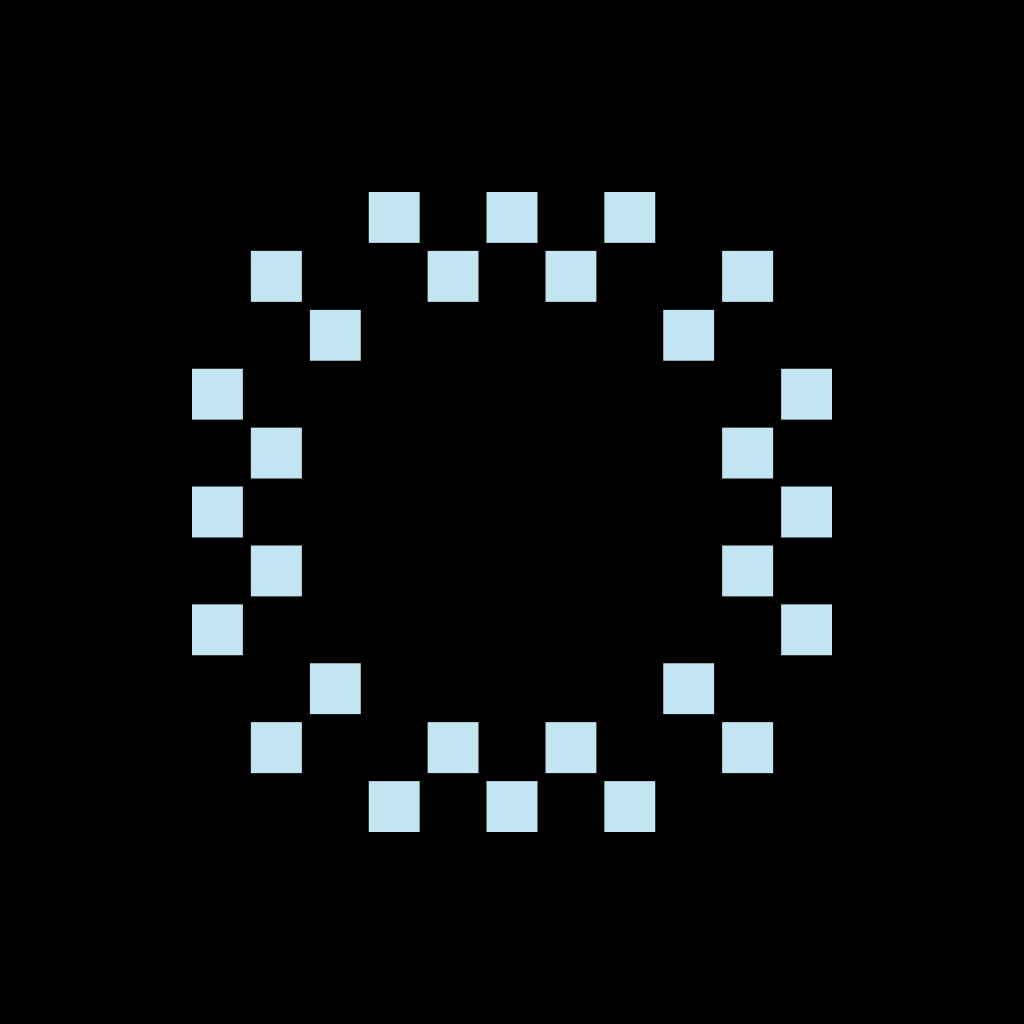
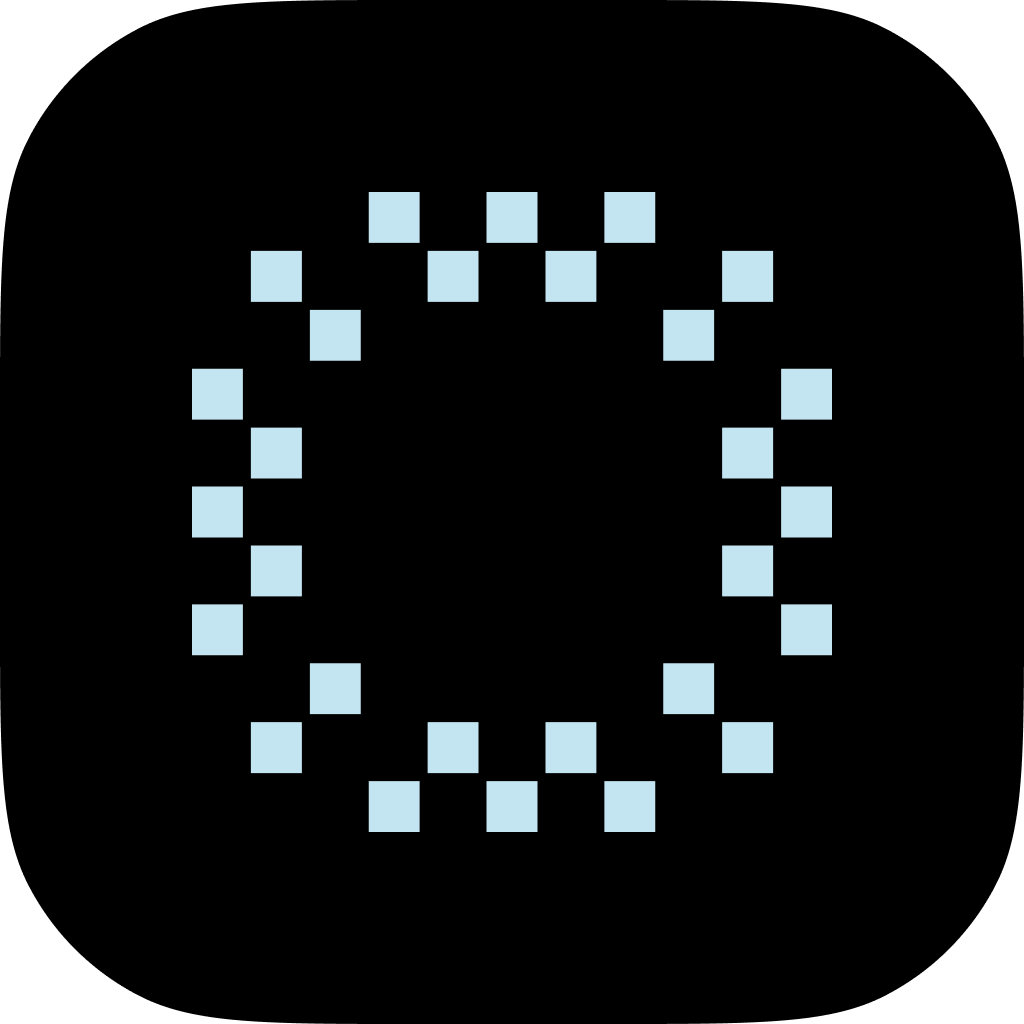
Add macOS wrapper and refine BatchFrame UI

diff --git a/macos/BatchFrameApp.swift b/macos/BatchFrameApp.swift
@@ -1,0 +1,111 @@
+import Cocoa
+import WebKit
+import UniformTypeIdentifiers
+
+final class AppDelegate: NSObject, NSApplicationDelegate, WKScriptMessageHandler, WKNavigationDelegate, WKUIDelegate {
+    private var window: NSWindow!
+    private var webView: WKWebView!
+
+    func applicationDidFinishLaunching(_ notification: Notification) {
+        let contentController = WKUserContentController()
+        contentController.add(self, name: "batchFrameSave")
+
+        let configuration = WKWebViewConfiguration()
+        configuration.userContentController = contentController
+        configuration.preferences.javaScriptCanOpenWindowsAutomatically = true
+
+        webView = WKWebView(frame: .zero, configuration: configuration)
+        webView.navigationDelegate = self
+        webView.uiDelegate = self
+        webView.setValue(false, forKey: "drawsBackground")
+
+        window = NSWindow(
+            contentRect: NSRect(x: 0, y: 0, width: 1280, height: 900),
+            styleMask: [.titled, .closable, .miniaturizable, .resizable, .fullSizeContentView],
+            backing: .buffered,
+            defer: false
+        )
+        window.title = "BatchFrame"
+        window.contentView = webView
+        window.center()
+        window.makeKeyAndOrderFront(nil)
+
+        loadApp()
+    }
+
+    func applicationShouldTerminateAfterLastWindowClosed(_ sender: NSApplication) -> Bool {
+        true
+    }
+
+    private func loadApp() {
+        guard let htmlURL = Bundle.main.url(forResource: "index", withExtension: "html") else {
+            presentError("index.html was not found in the app bundle.")
+            return
+        }
+        webView.loadFileURL(htmlURL, allowingReadAccessTo: Bundle.main.resourceURL ?? htmlURL.deletingLastPathComponent())
+    }
+
+    func userContentController(_ userContentController: WKUserContentController, didReceive message: WKScriptMessage) {
+        guard message.name == "batchFrameSave",
+              let body = message.body as? [String: Any],
+              let filename = body["filename"] as? String,
+              let base64 = body["base64"] as? String,
+              let data = Data(base64Encoded: base64) else {
+            NSSound.beep()
+            return
+        }
+
+        let panel = NSSavePanel()
+        panel.nameFieldStringValue = filename
+        panel.canCreateDirectories = true
+        panel.title = "Save \(filename)"
+
+        if filename.lowercased().hasSuffix(".zip") {
+            panel.allowedContentTypes = [UTType.zip]
+        } else if filename.lowercased().hasSuffix(".png") {
+            panel.allowedContentTypes = [UTType.png]
+        }
+
+        panel.beginSheetModal(for: window) { response in
+            guard response == .OK, let url = panel.url else { return }
+            do {
+                try data.write(to: url, options: .atomic)
+            } catch {
+                self.presentError("Could not save \(filename): \(error.localizedDescription)")
+            }
+        }
+    }
+
+    func webView(_ webView: WKWebView, createWebViewWith configuration: WKWebViewConfiguration, for navigationAction: WKNavigationAction, windowFeatures: WKWindowFeatures) -> WKWebView? {
+        if let url = navigationAction.request.url {
+            NSWorkspace.shared.open(url)
+        }
+        return nil
+    }
+
+    func webView(_ webView: WKWebView, decidePolicyFor navigationAction: WKNavigationAction, decisionHandler: @escaping (WKNavigationActionPolicy) -> Void) {
+        if navigationAction.navigationType == .linkActivated,
+           let url = navigationAction.request.url,
+           (url.scheme == "http" || url.scheme == "https") {
+            NSWorkspace.shared.open(url)
+            decisionHandler(.cancel)
+            return
+        }
+        decisionHandler(.allow)
+    }
+
+    private func presentError(_ message: String) {
+        let alert = NSAlert()
+        alert.messageText = "BatchFrame"
+        alert.informativeText = message
+        alert.alertStyle = .warning
+        alert.runModal()
+    }
+}
+
+let app = NSApplication.shared
+let delegate = AppDelegate()
+app.delegate = delegate
+app.setActivationPolicy(.regular)
+app.activate(ignoringOtherApps: true)
+app.run()

diff --git a/index.html b/index.html
@@ -217,7 +217,10 @@ a.lbl:hover{color:var(--accent);transform:translateY(-1px)}
 .empty-inner p{font-family:var(--font-mono);font-size:10px;letter-spacing:.2em;text-transform:uppercase;color:var(--ink-2)}
 
 /* ── Footer ───────────────────────────────── */
-.footer{margin-top:auto;display:flex;justify-content:space-between;gap:20px;flex-wrap:wrap;padding:16px 0 30px;border-top:1px solid var(--line)}
+.footer{margin-top:auto;display:grid;grid-template-columns:repeat(4,minmax(0,1fr));align-items:baseline;gap:20px var(--gutter);padding:16px 0 30px;border-top:1px solid var(--line)}
+.footer > *:nth-child(1){grid-column:span 1}
+.footer > *:nth-child(2){grid-column:span 1}
+.footer > *:nth-child(3){grid-column:span 2;text-align:right}
 .footer-copy{font-family:var(--font-mono);font-size:10px;letter-spacing:.16em;text-transform:uppercase;color:var(--ink-2)}
 
 /* ── Drop overlay ─────────────────────────── */
@@ -283,47 +286,46 @@ a.lbl:hover{color:var(--accent);transform:translateY(-1px)}
 .status-tip.error{border-color:var(--accent);color:var(--accent)}
 
 @media(max-width:1120px){.controlbar{grid-template-columns:repeat(2,minmax(0,1fr))}.cb-status{grid-column:1 / -1}.cb-right{grid-column:1 / -1;grid-template-columns:repeat(2,minmax(0,1fr))}.controlbar .seg{grid-column:span 1}.cb-actions{grid-column:1 / -1}.signaturebar{grid-template-columns:repeat(2,minmax(0,1fr))}.sig-panel.source-panel,.sig-panel.font-panel,.sig-panel.local-font-panel,.sig-panel.primary,.signaturebar > .ctl-size,.signaturebar > .ctl-opacity{grid-column:auto;grid-row:auto}.sig-panel.png-panel{grid-column:1 / -1;grid-row:auto}.signaturebar.png-mode .sig-panel.source-panel{grid-column:1;grid-row:1}.signaturebar.png-mode .sig-panel.png-panel{grid-column:2;grid-row:1}.signaturebar.png-mode .ctl-size{grid-column:1;grid-row:2}.signaturebar.png-mode .ctl-opacity{grid-column:2;grid-row:2}.row{grid-template-columns:repeat(2,minmax(0,1fr))}.row-meta{grid-column:span 1}.row-proof{grid-column:span 1}.crops-grid{grid-column:1 / -1}}
-@media(max-width:768px){.controlbar,.cb-right,.signaturebar,.signaturebar.png-mode{grid-template-columns:1fr}.cb-status,.controlbar .seg,.cb-actions,.cb-right{grid-column:1 / -1}.sig-panel,.sig-panel.font-panel,.sig-panel.local-font-panel,.sig-panel.primary,.sig-panel.source-panel,.sig-panel.png-panel,.signaturebar > .size-ctl{grid-column:1 / -1}.signaturebar.png-mode .sig-panel.source-panel,.signaturebar.png-mode .sig-panel.png-panel,.signaturebar.png-mode .ctl-size,.signaturebar.png-mode .ctl-opacity{grid-column:1 / -1;grid-row:auto}.sig-panel,.sig-panel.font-panel,.sig-panel.png-panel{align-items:stretch;justify-content:flex-start}.sig-panel.font-panel,.sig-panel.png-panel{flex-wrap:wrap}.size-ctl{gap:6px}.size-ctl input{width:100%}.row{grid-template-columns:1fr}.row-meta,.row-proof,.crops-grid{grid-column:1 / -1}}
+@media(max-width:768px){.masthead{flex-direction:column;align-items:flex-start;gap:14px}.mast-meta{padding-bottom:0}.footer{grid-template-columns:1fr}.footer > *{grid-column:1 / -1;text-align:left}.controlbar,.cb-right,.signaturebar,.signaturebar.png-mode{grid-template-columns:1fr}.cb-status,.controlbar .seg,.cb-actions,.cb-right{grid-column:1 / -1}.sig-panel,.sig-panel.font-panel,.sig-panel.local-font-panel,.sig-panel.primary,.sig-panel.source-panel,.sig-panel.png-panel,.signaturebar > .size-ctl{grid-column:1 / -1}.signaturebar.png-mode .sig-panel.source-panel,.signaturebar.png-mode .sig-panel.png-panel,.signaturebar.png-mode .ctl-size,.signaturebar.png-mode .ctl-opacity{grid-column:1 / -1;grid-row:auto}.sig-panel,.sig-panel.font-panel,.sig-panel.png-panel{align-items:stretch;justify-content:flex-start}.sig-panel.font-panel,.sig-panel.png-panel{flex-wrap:wrap}.size-ctl{gap:6px}.size-ctl input{width:100%}.row{grid-template-columns:1fr}.row-meta,.row-proof,.crops-grid{grid-column:1 / -1}}
 @media(max-width:520px){.crops-grid{grid-template-columns:1fr}.joined{grid-template-columns:1fr 1fr}}
 @media(prefers-reduced-motion:reduce){*,*::before,*::after{transition:none!important;animation:none!important}}
 </style>
 </helmet>
 <div class="bf">
-  <header class="masthead">
-    <div class="mast-id">
-      <span class="mast-spec">BatchFrame · Square export · 1440² · Local</span>
-    </div>
-    <div class="mast-meta">
+  <header class="masthead" style="flex-direction: row; gap: 16px">
+    <div class="mast-id" style="width: 100%">
+      BatchFrame</div>
+    <div class="mast-meta" style="padding-bottom: 0px; justify-content: flex-end; width: 100%; height: 100%">
       <span class="lbl">v1</span>
       <a class="lbl" href="https://github.com/naldo-w/BatchFrame" target="_blank" rel="noopener">GitHub ↗</a>
     </div>
   </header>
 
-  <div class="controlbar">
+  <div class="controlbar" style="gap: 16px 16px">
     <span class="cb-status" id="queueStatus">No images loaded</span>
-    <div class="cb-right">
-      <div class="seg" aria-label="Queue">
+    <div class="cb-right" style="gap: 16px 16px">
+      <div class="seg" aria-label="Queue" style="gap: 8px">
         <span class="seg-lbl">Add</span>
         <div class="cb-actions">
           <button class="btn" id="btnAdd" type="button">Add</button>
           <button class="btn" id="btnClear" type="button" disabled="disabled">Clear</button>
         </div>
       </div>
-      <div class="seg" aria-label="Interface mode">
+      <div class="seg" aria-label="Interface mode" style="gap: 8px">
         <span class="seg-lbl">Mode</span>
         <div class="seg-group">
           <button class="seg-btn mode-btn on" type="button" data-theme="light">Light</button>
           <button class="seg-btn mode-btn" type="button" data-theme="dark">Dark</button>
         </div>
       </div>
-      <div class="seg" aria-label="Export frame">
+      <div class="seg" aria-label="Export frame" style="gap: 8px">
         <span class="seg-lbl">Frame</span>
         <div class="seg-group">
           <button class="seg-btn frame-btn on" type="button" data-frame="white">White</button>
           <button class="seg-btn frame-btn" type="button" data-frame="black">Black</button>
         </div>
       </div>
-      <div class="seg" aria-label="Export">
+      <div class="seg" aria-label="Export" style="gap: 8px">
         <span class="seg-lbl">Export</span>
         <div class="cb-actions">
           <button class="btn accent" id="btnAll" type="button" disabled="disabled">Export ZIP</button>
@@ -339,19 +341,19 @@ a.lbl:hover{color:var(--accent);transform:translateY(-1px)}
     <ul class="upload-list" id="uploadList"></ul>
   </div>
 
-  <div class="signaturebar" aria-label="Signature settings">
-    <div class="sig-panel source-panel">
+  <div class="signaturebar" aria-label="Signature settings" style="gap: 16px 16px">
+    <div class="sig-panel source-panel" style="gap: 8px">
       <span class="seg-lbl">Type</span>
       <div class="seg-group signature-source" style="justify-content: space-between">
         <button class="seg-btn on" id="btnSigTextMode" type="button" style="width: 100%">Text</button>
         <button class="seg-btn" id="btnSigPngMode" type="button" style="width: 100%">PNG</button>
       </div>
     </div>
-    <div class="sig-panel local-font-panel">
+    <div class="sig-panel local-font-panel" style="gap: 8px">
       <button class="btn" id="btnLocalFonts" type="button">Load Local Fonts</button>
     </div>
     <div class="sig-panel font-panel">
-      <div class="sig-panel-stack">
+      <div class="sig-panel-stack" style="gap: 8px">
         <span class="seg-lbl">Font</span>
         <div class="font-picker" id="sigFontPicker">
           <input class="font-input" id="sigFontInput" type="text" value="Anybody" autocomplete="off" spellcheck="false" aria-controls="sigFontMenu" aria-expanded="false">
@@ -359,16 +361,16 @@ a.lbl:hover{color:var(--accent);transform:translateY(-1px)}
         </div>
       </div>
     </div>
-    <label class="sig-panel primary">
+    <label class="sig-panel primary" style="gap: 8px">
       <span class="seg-lbl">Signature</span>
       <input class="sig-input" id="sigTextInput" type="text" value="NALDO WONG" placeholder="SIGNATURE" autocomplete="off" spellcheck="false">
     </label>
-    <div class="size-ctl ctl-size">
+    <div class="size-ctl ctl-size" style="gap: 8px">
       <span class="seg-lbl">Size</span>
       <span class="lbl" id="sigSizeValue">23px</span>
       <input id="sigSizeRange" type="range" min="6" max="92" step="1" value="23">
     </div>
-    <div class="size-ctl ctl-opacity">
+    <div class="size-ctl ctl-opacity" style="gap: 8px">
       <span class="seg-lbl">Opacity</span>
       <span class="lbl" id="sigOpacityValue">50%</span>
       <input id="sigOpacityRange" type="range" min="0" max="100" step="5" value="50">
@@ -386,7 +388,7 @@ a.lbl:hover{color:var(--accent);transform:translateY(-1px)}
   <input type="file" id="fileInput" accept=".jpg,.jpeg,.png,.heic,.heif,.dng,image/jpeg,image/png,image/heic,image/heif" multiple="multiple">
   <input type="file" id="sigPngInput" accept=".png,image/png">
 
-  <div class="empty" id="emptyState">
+  <div class="empty" id="emptyState" style="margin-top: 16px; margin-bottom: 16px">
     <div class="empty-inner">
       <p>Drop to upload</p>
       <p>JPG · PNG · HEIC · DNG — processed locally</p>
@@ -395,10 +397,9 @@ a.lbl:hover{color:var(--accent);transform:translateY(-1px)}
 
   <main class="rows-wrap" id="rowsWrap" hidden="hidden"></main>
 
-  <footer class="footer">
-    <a class="lbl" href="https://www.instagram.com/n_do.w/" target="_blank" rel="noopener">@n_do.w</a>
+  <footer class="footer" style="justify-content: space-between; padding-bottom: 40px; padding-top: 16px; margin-top: 0px">
+    <a class="lbl" href="https://www.instagram.com/n_do.w/" target="_blank" rel="noopener">@n_do.w</a><span class="lbl">Static · No upload server</span>
     <span class="footer-copy">© 2026 <a class="lbl" href="https://www.instagram.com/naldo.design/" target="_blank" rel="noopener">naldo.design</a> · All rights reserved</span>
-    <span class="lbl">Static · No upload server</span>
   </footer>
 </div>
 <div class="status-tip" id="statusTip" role="status" aria-live="polite"></div>
@@ -1377,14 +1378,28 @@ class Component extends DCLogic {
 
     // ── Export ────────────────────────────────────────────────
     const toBlob = c => new Promise(r => c.toBlob(r, 'image/png'));
-    function dl(blob, fn) {
+    async function dl(blob, fn) {
+      if (window.webkit?.messageHandlers?.batchFrameSave) {
+        const dataUrl = await new Promise((resolve, reject) => {
+          const reader = new FileReader();
+          reader.onload = () => resolve(reader.result);
+          reader.onerror = () => reject(reader.error);
+          reader.readAsDataURL(blob);
+        });
+        window.webkit.messageHandlers.batchFrameSave.postMessage({
+          filename: fn,
+          mimeType: blob.type || 'application/octet-stream',
+          base64: String(dataUrl).split(',')[1] || ''
+        });
+        return;
+      }
       const a = document.createElement('a');
       a.href = URL.createObjectURL(blob); a.download = fn; a.click();
       setTimeout(() => URL.revokeObjectURL(a.href), 5000);
     }
     async function downloadFiles(files) {
       for (const file of files) {
-        dl(file, file.name);
+        await dl(file, file.name);
         await sleep(80);
       }
     }
@@ -1449,7 +1464,7 @@ class Component extends DCLogic {
         for (let j = 0; j < outputs.length; j++) zip.file(namesByItem[index][j], await toBlob(outputs[j]));
       }
       const zipBlob = await zip.generateAsync({ type: 'blob' });
-      dl(zipBlob, 'ig_frames.zip');
+      await dl(zipBlob, 'ig_frames.zip');
       btnAll.disabled = false; btnAll.textContent = 'Export ZIP';
       syncExportLabels();
     });

diff --git a/README.md b/README.md
@@ -22,7 +22,19 @@ python3 -m http.server
 # then visit http://localhost:8000
 ```
 
+## macOS app
+
+Build a local macOS app bundle:
+
+```bash
+scripts/build-macos-app.sh
+```
+
+The app is created at `dist/BatchFrame.app`.
+
 ## Files
 
 - `index.html` — the app UI and logic
 - `support.js` — runtime support script loaded by the page
+- `macos/BatchFrameApp.swift` — native macOS WebView wrapper
+- `scripts/build-macos-app.sh` — macOS app build script